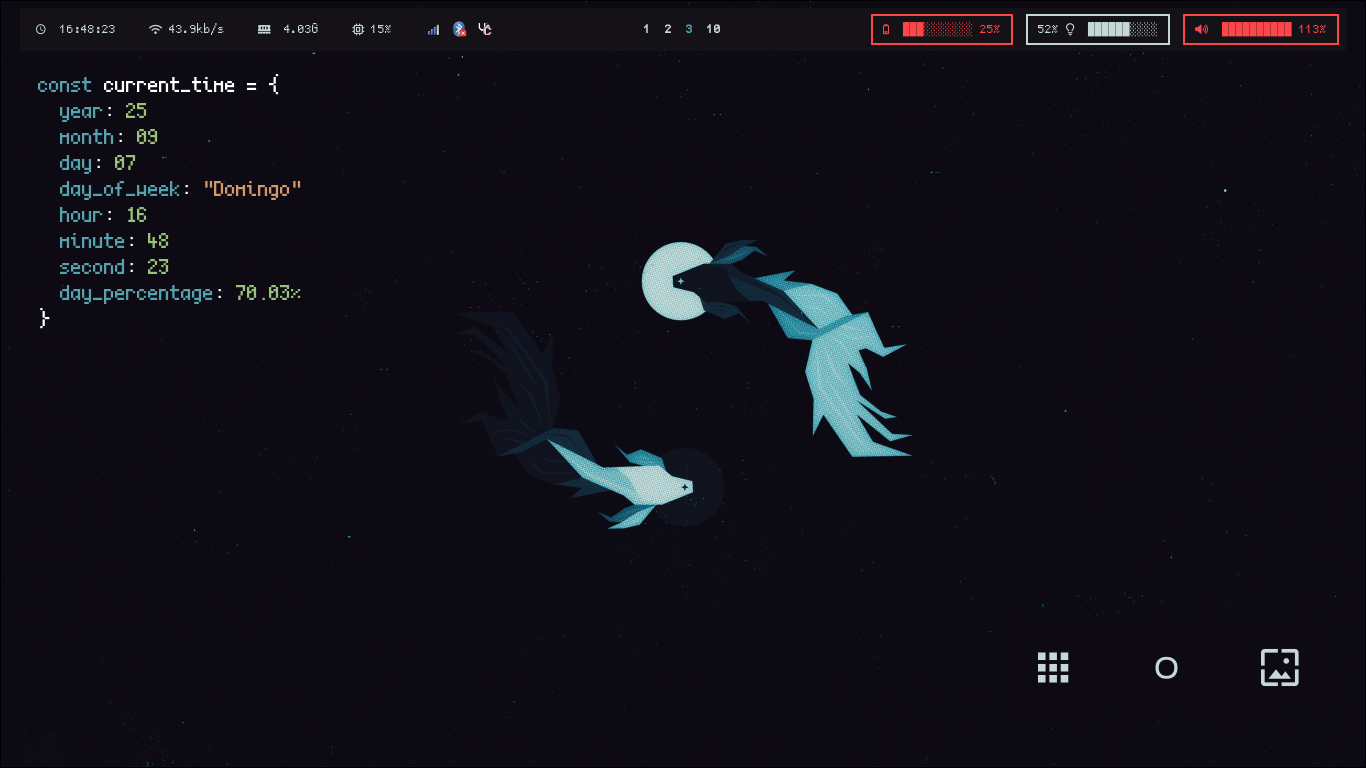
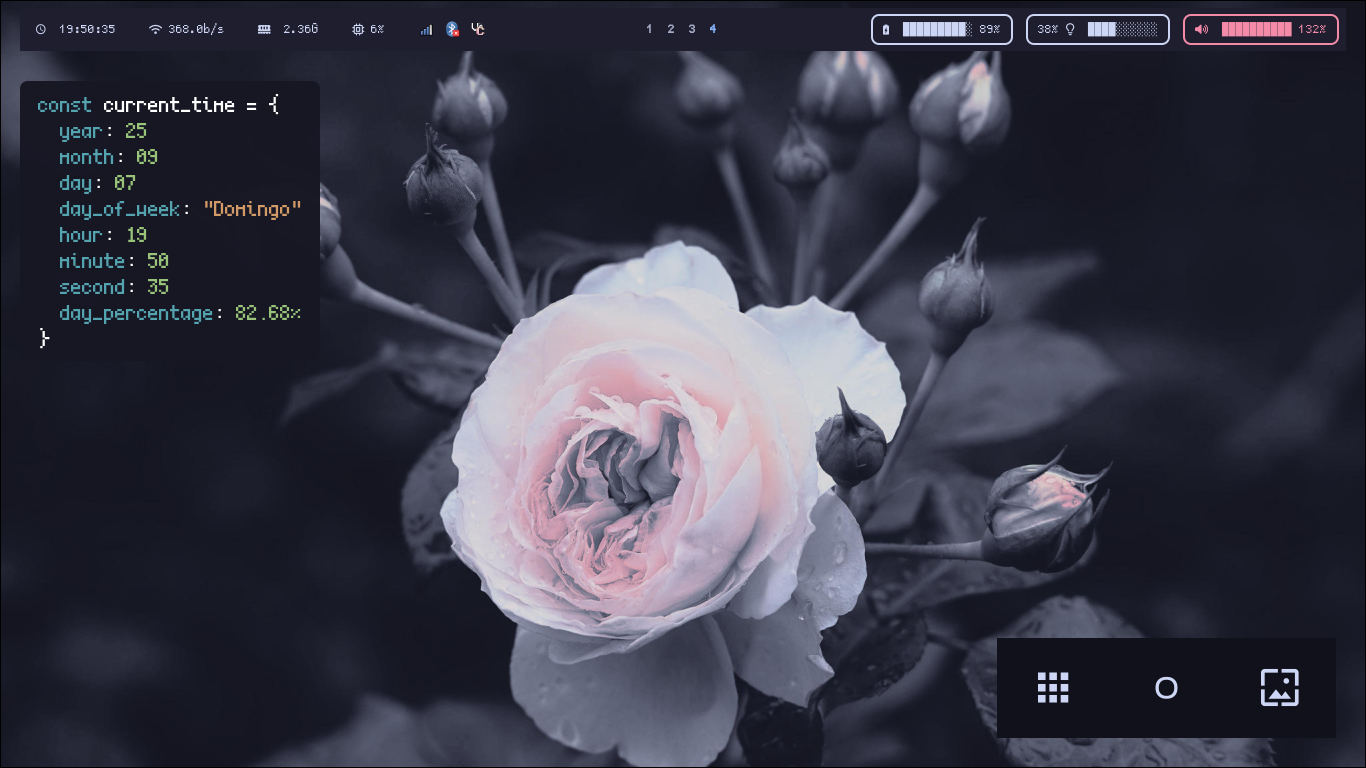
Fixed small mistakes in scripts, changed colors and made it college ready

diff --git a/config/wofi/style.css b/config/wofi/style.css
@@ -1,60 +1,69 @@
+/* Catppuccin Mocha Palette */
+@define-color base #1e1e2e;
+@define-color mantle #181825;
+@define-color crust #11111b;
+@define-color text #cdd6f4;
+@define-color subtext0 #a6adc8;
+@define-color surface0 #313244;
+@define-color blue #89b4fa;
+@define-color mauve #cba6f7;
+@define-color sapphire #74c7ec;
+
 * {
   font-family: 'scientifica';
   background: transparent;
-  color: #c6d7d8;
+  color: @text;
 }
 
 #window {
-  color: #c6d7d8;
-  border-color: #54A4B0;
+  border-color: @mauve;
   border-style: solid;
   border-width: 1px;
 
-  /*Linear gradient background instead of standard background, because it makes cleaner border-radius cuts, issa bug :p*/
-  background-image: linear-gradient(to bottom, #0D0A13 100%);
+  /* Linear gradient background instead of standard background, because it makes cleaner border-radius cuts, issa bug :p */
+  background-image: linear-gradient(to bottom, @base 100%);
   border-radius: 0px;
 }
+
 #scroll {
   border-top-style: solid;
   border-width: 1px;
-  border-color: #d8cab8;
+  border-color: @surface0;
 }
+
 #inner-box {
   padding-top: 12px;
 }
+
 #entry {
   border-style: none;
-  border-color: #54A4B0;
-  color: #c6d7d8;
   padding: 6px;
   margin-bottom: 8px;
   margin-left: 12px;
-  margin-right: 12;
-
+  margin-right: 12px;
   border-radius: 12px;
 }
 
 #entry:selected {
-  background: #27232b;
-  color: #6BB4BD;
+  background: @surface0;
+  color: @sapphire;
   font-weight: bold;
   outline: none;
 }
 
 #input {
-  background-color: #0D0A13;
-  color: #C6D7D8;
-  border-color: #54A4B0;
-
+  background-color: @mantle;
+  color: @text;
+  border-color: @mauve;
+  border-radius: 8px;
   font-style: normal;
-
   padding: 12px;
   margin: 8px;
 }
+
 #input:focus {
-  background: #27232b;
-  background-color: #27232b;
-  border-color: #293044;
+  background-color: @crust;
+  border-color: @blue;
   font-style: italic;
 }
 
